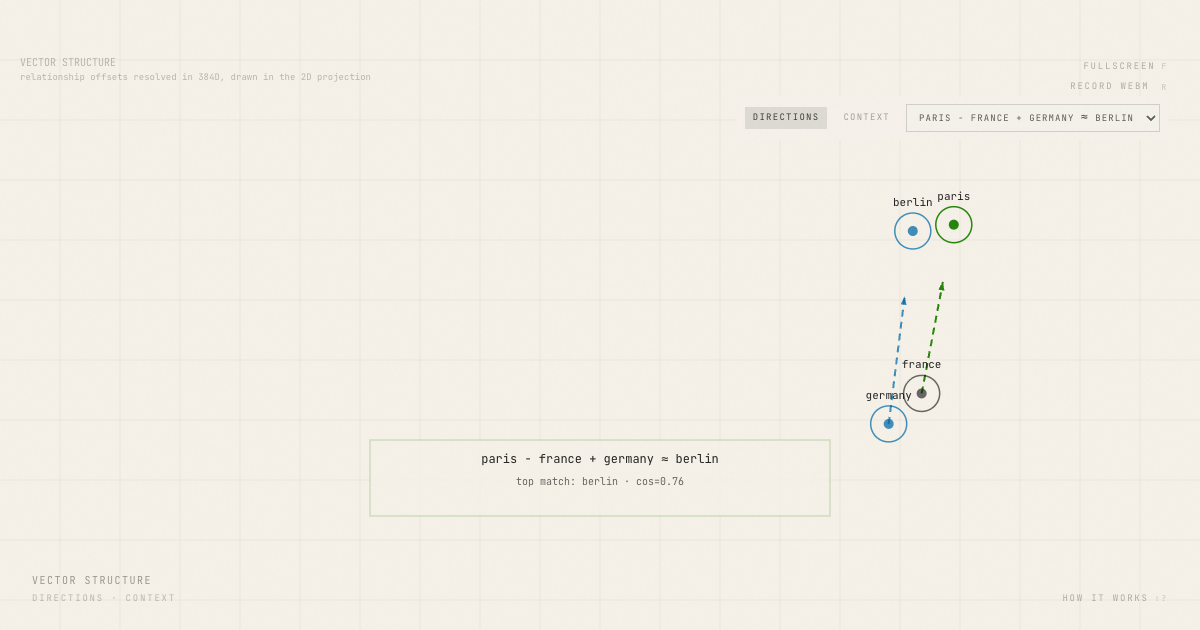
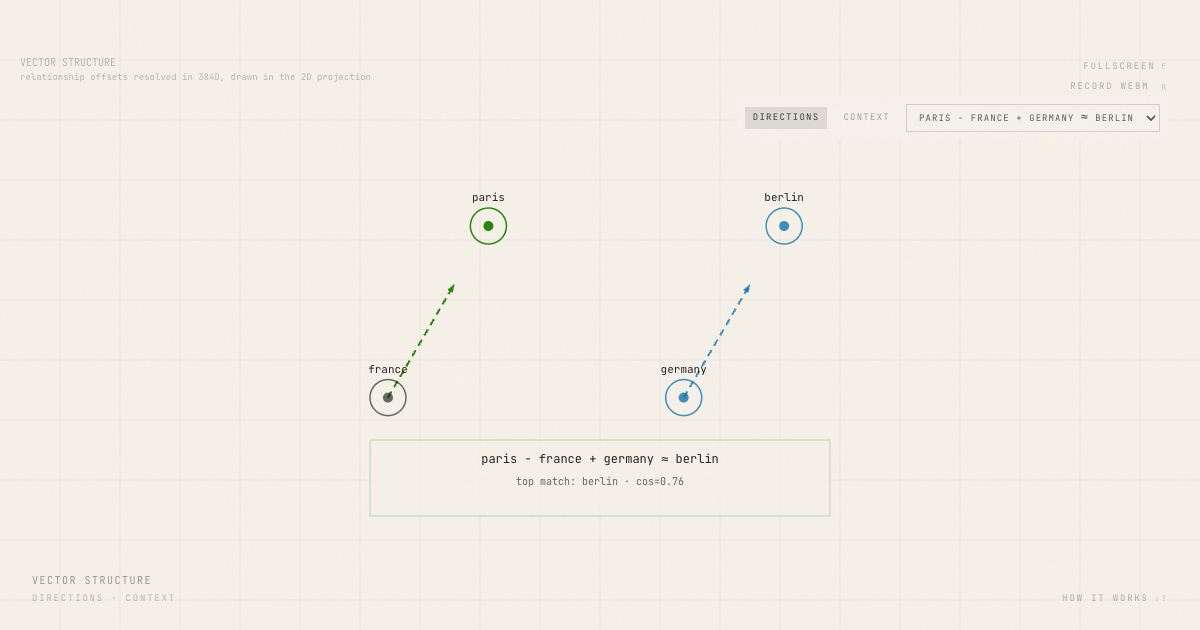
address embedding lab UX review

diff --git a/src/features/lab/components/semantic-search.tsx b/src/features/lab/components/semantic-search.tsx
@@ -38,6 +38,11 @@ const CATEGORIES = [
   ...Array.from(new Set(DOCUMENT_CHUNKS.map((chunk) => chunk.category))),
 ] as Category[];
 
+const INITIAL_QUERY_INDEX = Math.max(
+  0,
+  SEARCH_QUERIES.findIndex((query) => query.id === "vector-db"),
+);
+
 function colors(): ThemeColors {
   if (getTheme() === "dark") {
     return {
@@ -75,8 +80,8 @@ function ease(t: number): number {
 
 function pointFor(item: { baseX: number; baseY: number }, W: number, H: number) {
   const padX = Math.min(96, W * 0.12);
-  const padTop = 110;
-  const padBot = 110;
+  const padTop = W < 640 ? 168 : 110;
+  const padBot = W < 640 ? 150 : 110;
   return {
     x: padX + item.baseX * (W - padX * 2),
     y: padTop + item.baseY * Math.max(120, H - padTop - padBot),
@@ -98,7 +103,7 @@ export function SemanticSearch() {
   const canvasRef = useRef<HTMLCanvasElement>(null);
   const rafRef = useRef(0);
   const stateRef = useRef<RenderState>({
-    queryIndex: 0,
+    queryIndex: INITIAL_QUERY_INDEX,
     topK: 5,
     threshold: 0.36,
     category: "all",
@@ -106,7 +111,7 @@ export function SemanticSearch() {
     reduced: false,
   });
 
-  const [queryIndex, setQueryIndex] = useState(0);
+  const [queryIndex, setQueryIndex] = useState(INITIAL_QUERY_INDEX);
   const [topK, setTopK] = useState(5);
   const [threshold, setThreshold] = useState(0.36);
   const [category, setCategory] = useState<Category>("all");
@@ -163,6 +168,7 @@ export function SemanticSearch() {
       const matches = rankedMatches(query, s.category);
       const visible = matches.slice(0, s.topK);
       const passing = visible.filter((match) => match.score >= s.threshold);
+      const isCompact = W < 640;
       const queryPoint = pointFor(query, W, H);
       const pulse = s.reduced ? 0.45 : 0.35 + 0.25 * Math.sin(s.time * 2.2);
 
@@ -219,7 +225,7 @@ export function SemanticSearch() {
         ctx.fill();
         ctx.globalAlpha = 1;
 
-        if (ranked || pass) {
+        if ((ranked || pass) && !isCompact) {
           ctx.font = `${pass ? 11 : 9}px 'JetBrains Mono', monospace`;
           ctx.fillStyle = pass ? c.textBright : c.text;
           ctx.textAlign = "left";
@@ -245,11 +251,13 @@ export function SemanticSearch() {
 
         const mx = lerp(queryPoint.x, pt.x, 0.52);
         const my = lerp(queryPoint.y, pt.y, 0.52);
-        ctx.font = "9px 'JetBrains Mono', monospace";
-        ctx.fillStyle = pass ? c.textBright : c.textDim;
-        ctx.textAlign = "center";
-        ctx.textBaseline = "middle";
-        ctx.fillText(match.score.toFixed(2), mx, my - 8);
+        if (!isCompact) {
+          ctx.font = "9px 'JetBrains Mono', monospace";
+          ctx.fillStyle = pass ? c.textBright : c.textDim;
+          ctx.textAlign = "center";
+          ctx.textBaseline = "middle";
+          ctx.fillText(match.score.toFixed(2), mx, my - 8);
+        }
       }
 
       ctx.strokeStyle = c.accent;
@@ -263,15 +271,17 @@ export function SemanticSearch() {
       ctx.beginPath();
       ctx.arc(queryPoint.x, queryPoint.y, 7, 0, Math.PI * 2);
       ctx.fill();
-      ctx.font = "12px 'JetBrains Mono', monospace";
-      ctx.fillStyle = c.textBright;
-      ctx.textAlign = "center";
-      ctx.textBaseline = "bottom";
-      ctx.fillText(`"${query.label}"`, queryPoint.x, queryPoint.y - 28);
+      if (!isCompact) {
+        ctx.font = "12px 'JetBrains Mono', monospace";
+        ctx.fillStyle = c.textBright;
+        ctx.textAlign = "center";
+        ctx.textBaseline = "bottom";
+        ctx.fillText(`"${query.label}"`, queryPoint.x, queryPoint.y - 28);
+      }
 
-      const panelW = Math.min(360, W - 40);
-      const panelX = W - panelW - 20;
-      const panelY = Math.max(130, H - 330);
+      const panelW = Math.min(isCompact ? W - 40 : 360, W - 40);
+      const panelX = isCompact ? 20 : W - panelW - 20;
+      const panelY = isCompact ? Math.max(260, H - 330) : Math.max(130, H - 330);
       ctx.fillStyle = getTheme() === "dark" ? "rgba(10,10,10,0.72)" : "rgba(245,241,232,0.76)";
       ctx.fillRect(panelX, panelY, panelW, 220);
       ctx.strokeStyle = c.muted;
@@ -332,12 +342,12 @@ export function SemanticSearch() {
         aria-hidden="true"
       />
 
-      <div className="fixed right-5 top-24 z-10 flex max-w-[calc(100vw-2.5rem)] flex-wrap items-center justify-end gap-2 bg-background/80 px-2 py-2 backdrop-blur-sm md:right-8">
+      <div className="fixed left-5 right-5 top-24 z-10 grid grid-cols-2 gap-2 bg-background/80 px-2 py-2 backdrop-blur-sm sm:left-auto sm:right-5 sm:flex sm:max-w-[calc(100vw-2.5rem)] sm:flex-wrap sm:items-center sm:justify-end md:right-8">
         <select
           value={queryIndex}
           aria-label="query example"
           onChange={(event) => setQueryIndex(Number(event.target.value))}
-          className={fieldClass}
+          className={`${fieldClass} col-span-2 sm:col-span-1`}
         >
           {SEARCH_QUERIES.map((query, index) => (
             <option key={query.id} value={index}>
@@ -346,7 +356,7 @@ export function SemanticSearch() {
           ))}
         </select>
 
-        <label className="flex items-center gap-2 font-mono text-[9px] uppercase tracking-[0.14em] text-foreground/35">
+        <label className="flex min-w-0 items-center gap-2 font-mono text-[9px] uppercase tracking-[0.14em] text-foreground/35">
           top-k
           <input
             type="range"
@@ -354,12 +364,12 @@ export function SemanticSearch() {
             max="8"
             value={topK}
             onChange={(event) => setTopK(Number(event.target.value))}
-            className="w-20 accent-[var(--accent)]"
+            className="min-w-0 flex-1 accent-[var(--accent)] sm:w-20 sm:flex-none"
           />
           <span className="w-3 text-foreground/60">{topK}</span>
         </label>
 
-        <label className="flex items-center gap-2 font-mono text-[9px] uppercase tracking-[0.14em] text-foreground/35">
+        <label className="flex min-w-0 items-center gap-2 font-mono text-[9px] uppercase tracking-[0.14em] text-foreground/35">
           threshold
           <input
             type="range"
@@ -368,7 +378,7 @@ export function SemanticSearch() {
             step="0.01"
             value={threshold}
             onChange={(event) => setThreshold(Number(event.target.value))}
-            className="w-20 accent-[var(--accent)]"
+            className="min-w-0 flex-1 accent-[var(--accent)] sm:w-20 sm:flex-none"
           />
           <span className="w-7 text-foreground/60">{threshold.toFixed(2)}</span>
         </label>
@@ -377,7 +387,7 @@ export function SemanticSearch() {
           value={category}
           aria-label="metadata filter"
           onChange={(event) => setCategory(event.target.value as Category)}
-          className={fieldClass}
+          className={`${fieldClass} min-w-0`}
         >
           {CATEGORIES.map((value) => (
             <option key={value} value={value}>

diff --git a/src/features/lab/components/vector-structure.tsx b/src/features/lab/components/vector-structure.tsx
@@ -76,10 +76,26 @@ function point(baseX: number, baseY: number, W: number, H: number) {
   };
 }
 
-function wordPoint(word: string, W: number, H: number) {
-  const found = WORDS.find((item) => item.word === word);
-  if (!found) return null;
-  return { word: found.word, ...point(found.baseX, found.baseY, W, H) };
+function directionStagePoints(analogy: EmbeddingAnalogy, W: number, H: number) {
+  const predicted = analogy.top[0] ? WORDS[analogy.top[0].idx] : undefined;
+  if (!predicted) return null;
+
+  const stageW = Math.min(W - 56, 620);
+  const stageH = Math.min(H - 300, 380);
+  const centerX = W / 2;
+  const top = Math.max(160, (H - stageH) / 2 - 20);
+  const dx = stageW * 0.18;
+  const lift = stageH * 0.52;
+  const baseY = top + stageH * 0.72;
+  const topY = baseY - lift;
+
+  return {
+    a: { word: analogy.a, x: centerX - dx, y: topY },
+    b: { word: analogy.b, x: centerX - dx * 1.9, y: baseY },
+    c: { word: analogy.c, x: centerX + dx * 0.75, y: baseY },
+    d: { word: predicted.word, x: centerX + dx * 1.65, y: topY },
+    predicted,
+  };
 }
 
 function drawArrow(
@@ -154,12 +170,9 @@ function drawDirections(
   time: number,
   reduced: boolean,
 ) {
-  const a = wordPoint(analogy.a, W, H);
-  const b = wordPoint(analogy.b, W, H);
-  const cWord = wordPoint(analogy.c, W, H);
-  const predicted = analogy.top[0] ? WORDS[analogy.top[0].idx] : undefined;
-  const d = predicted ? wordPoint(predicted.word, W, H) : null;
-  if (!a || !b || !cWord || !d) return;
+  const stage = directionStagePoints(analogy, W, H);
+  if (!stage) return;
+  const { a, b, c: cWord, d, predicted } = stage;
 
   const phase = reduced ? 1 : 0.65 + 0.35 * Math.sin(time * 1.3) ** 2;
 
@@ -396,7 +409,7 @@ export function VectorStructure() {
         aria-hidden="true"
       />
 
-      <div className="fixed right-5 top-24 z-10 flex max-w-[calc(100vw-2.5rem)] flex-wrap items-center justify-end gap-2 bg-background/80 px-2 py-2 backdrop-blur-sm md:right-8">
+      <div className="fixed left-5 right-5 top-24 z-10 grid grid-cols-2 gap-2 bg-background/80 px-2 py-2 backdrop-blur-sm sm:left-auto sm:right-5 sm:flex sm:max-w-[calc(100vw-2.5rem)] sm:flex-wrap sm:items-center sm:justify-end md:right-8">
         <button
           type="button"
           onClick={() => setMode("directions")}
@@ -417,7 +430,7 @@ export function VectorStructure() {
             value={analogyIndex}
             aria-label="analogy"
             onChange={(event) => setAnalogyIndex(Number(event.target.value))}
-            className={selectClass}
+            className={`${selectClass} col-span-2 sm:col-span-1`}
           >
             {ANALOGIES.map((analogy, index) => (
               <option key={analogy.label} value={index}>
@@ -430,7 +443,7 @@ export function VectorStructure() {
             value={contextIndex}
             aria-label="contextual example"
             onChange={(event) => setContextIndex(Number(event.target.value))}
-            className={selectClass}
+            className={`${selectClass} col-span-2 sm:col-span-1`}
           >
             {CONTEXTUAL_EXAMPLES.map((example, index) => (
               <option key={example.word} value={index}>

diff --git a/src/app/lab/vector-structure/page.tsx b/src/app/lab/vector-structure/page.tsx
@@ -15,7 +15,7 @@ export default function VectorStructurePage() {
   return (
     <>
       <VectorStructure />
-      <div className="pointer-events-none fixed bottom-6 left-5 z-10 select-none md:left-8">
+      <div className="pointer-events-none fixed bottom-6 left-5 z-10 hidden select-none sm:block md:left-8">
         <p className="font-mono text-[10px] uppercase tracking-[0.15em] text-foreground/40">
           vector structure
         </p>

diff --git a/src/app/lab/semantic-search/page.tsx b/src/app/lab/semantic-search/page.tsx
@@ -15,7 +15,7 @@ export default function SemanticSearchPage() {
   return (
     <>
       <SemanticSearch />
-      <div className="pointer-events-none fixed bottom-6 left-5 z-10 select-none md:left-8">
+      <div className="pointer-events-none fixed bottom-6 left-5 z-10 hidden select-none sm:block md:left-8">
         <p className="font-mono text-[10px] uppercase tracking-[0.15em] text-foreground/40">
           semantic search
         </p>
